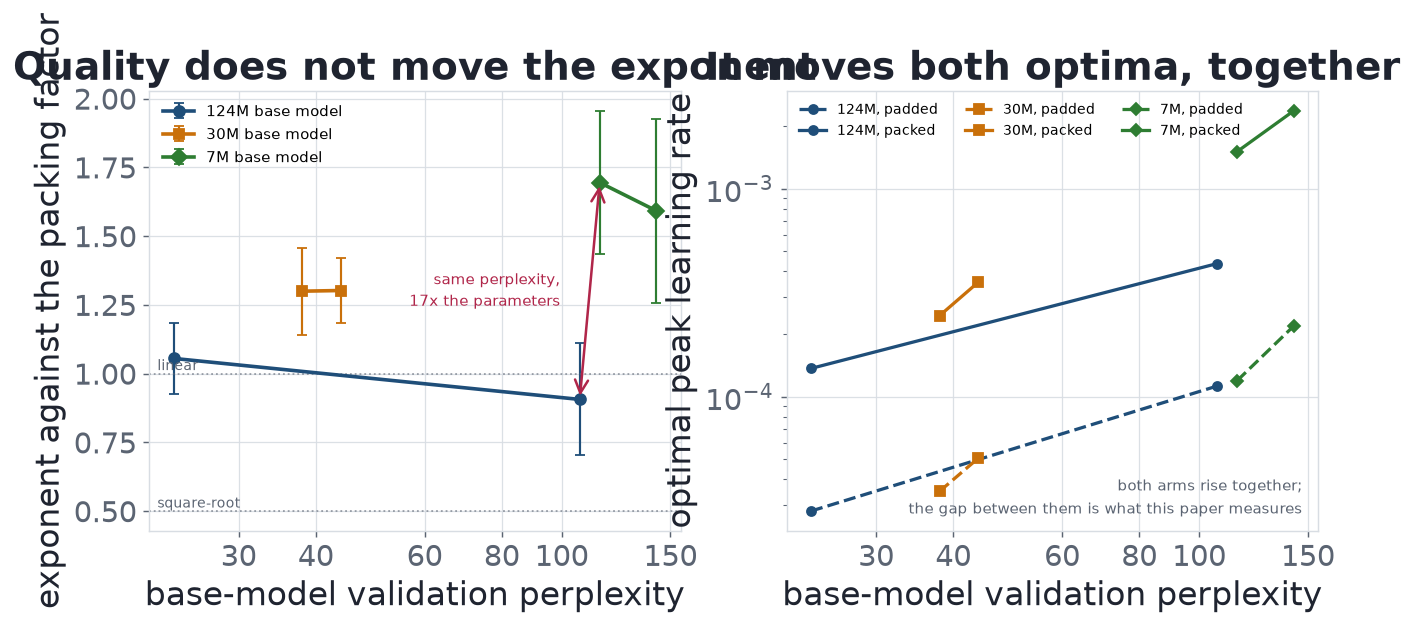
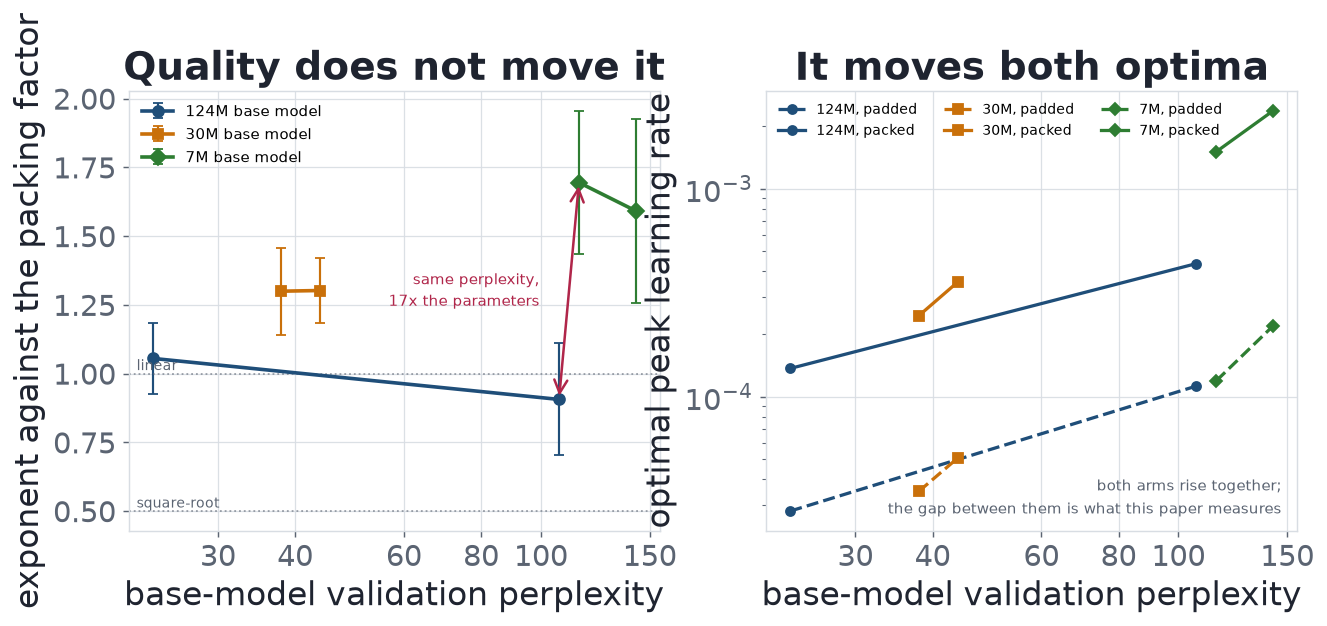
Shorten the quality figure's panel titles too
Same problem as the wide-batch control and caught the same way, by rendering the
compiled page rather than the standalone PNG: at paper type size each panel is
5.8in and 'Quality does not move the exponent' is wider than that, so the two
titles collided. They now read 'Quality does not move it' and 'It moves both
optima', with the exponent named by the y-axis and the rest in the caption.

Every page of the workshop build that carries a figure has now been rendered and
looked at. Nine content pages still.

diff --git a/ashugpt/viz/figures.py b/ashugpt/viz/figures.py
@@ -736,7 +736,9 @@ def lr_scaling_quality() -> Path:
             ax.xaxis.set_minor_locator(FixedLocator([]))
 
         left.set_ylabel("exponent against the packing factor")
-        left.set_title("Quality does not move the exponent")
+        # Short enough to fit its own panel at paper type size; the caption
+        # carries the rest.
+        left.set_title("Quality does not move it")
         left.legend(loc="upper left", fontsize=8.5)
         for value, name in ((0.5, "square-root"), (1.0, "linear")):
             left.axhline(value, color=MUTED, linestyle=":", linewidth=1, alpha=0.6)
@@ -758,7 +760,7 @@ def lr_scaling_quality() -> Path:
 
         right.set_yscale("log")
         right.set_ylabel("optimal peak learning rate")
-        right.set_title("It moves both optima, together")
+        right.set_title("It moves both optima")
         right.legend(loc="upper left", fontsize=7.5, ncol=3)
         right.text(0.97, 0.04,
                    "both arms rise together;\nthe gap between them is what this paper measures",
